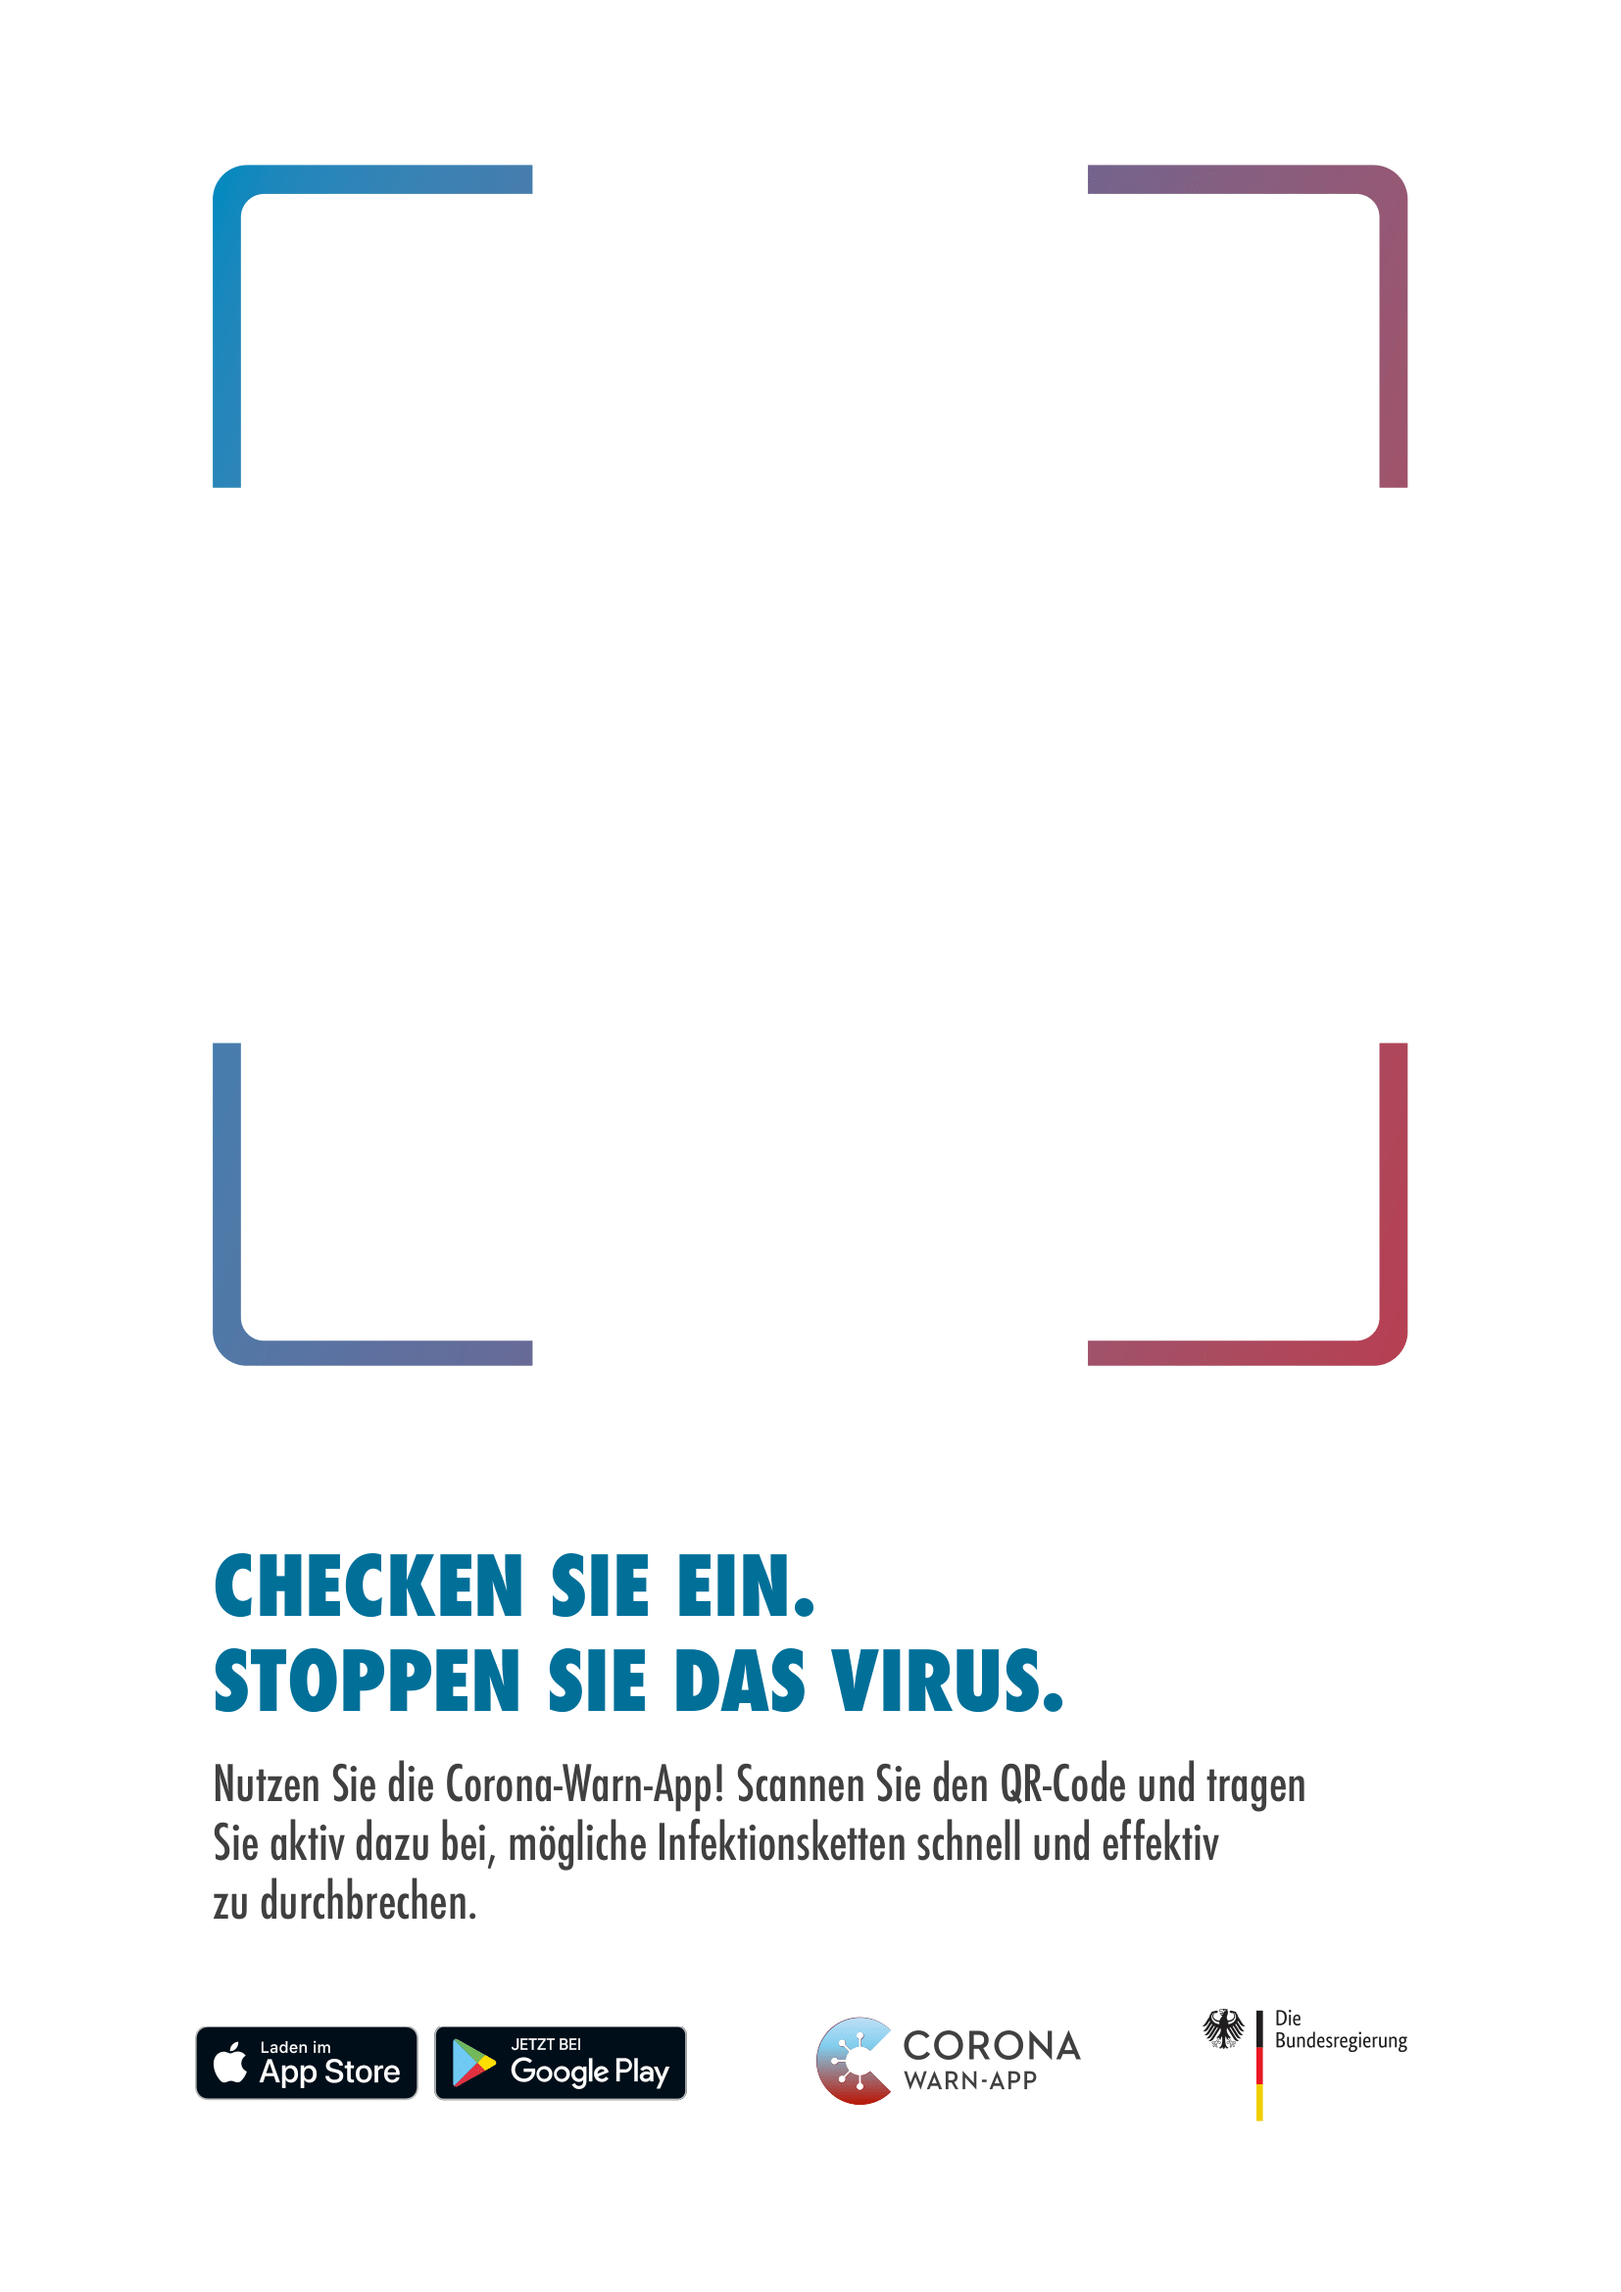
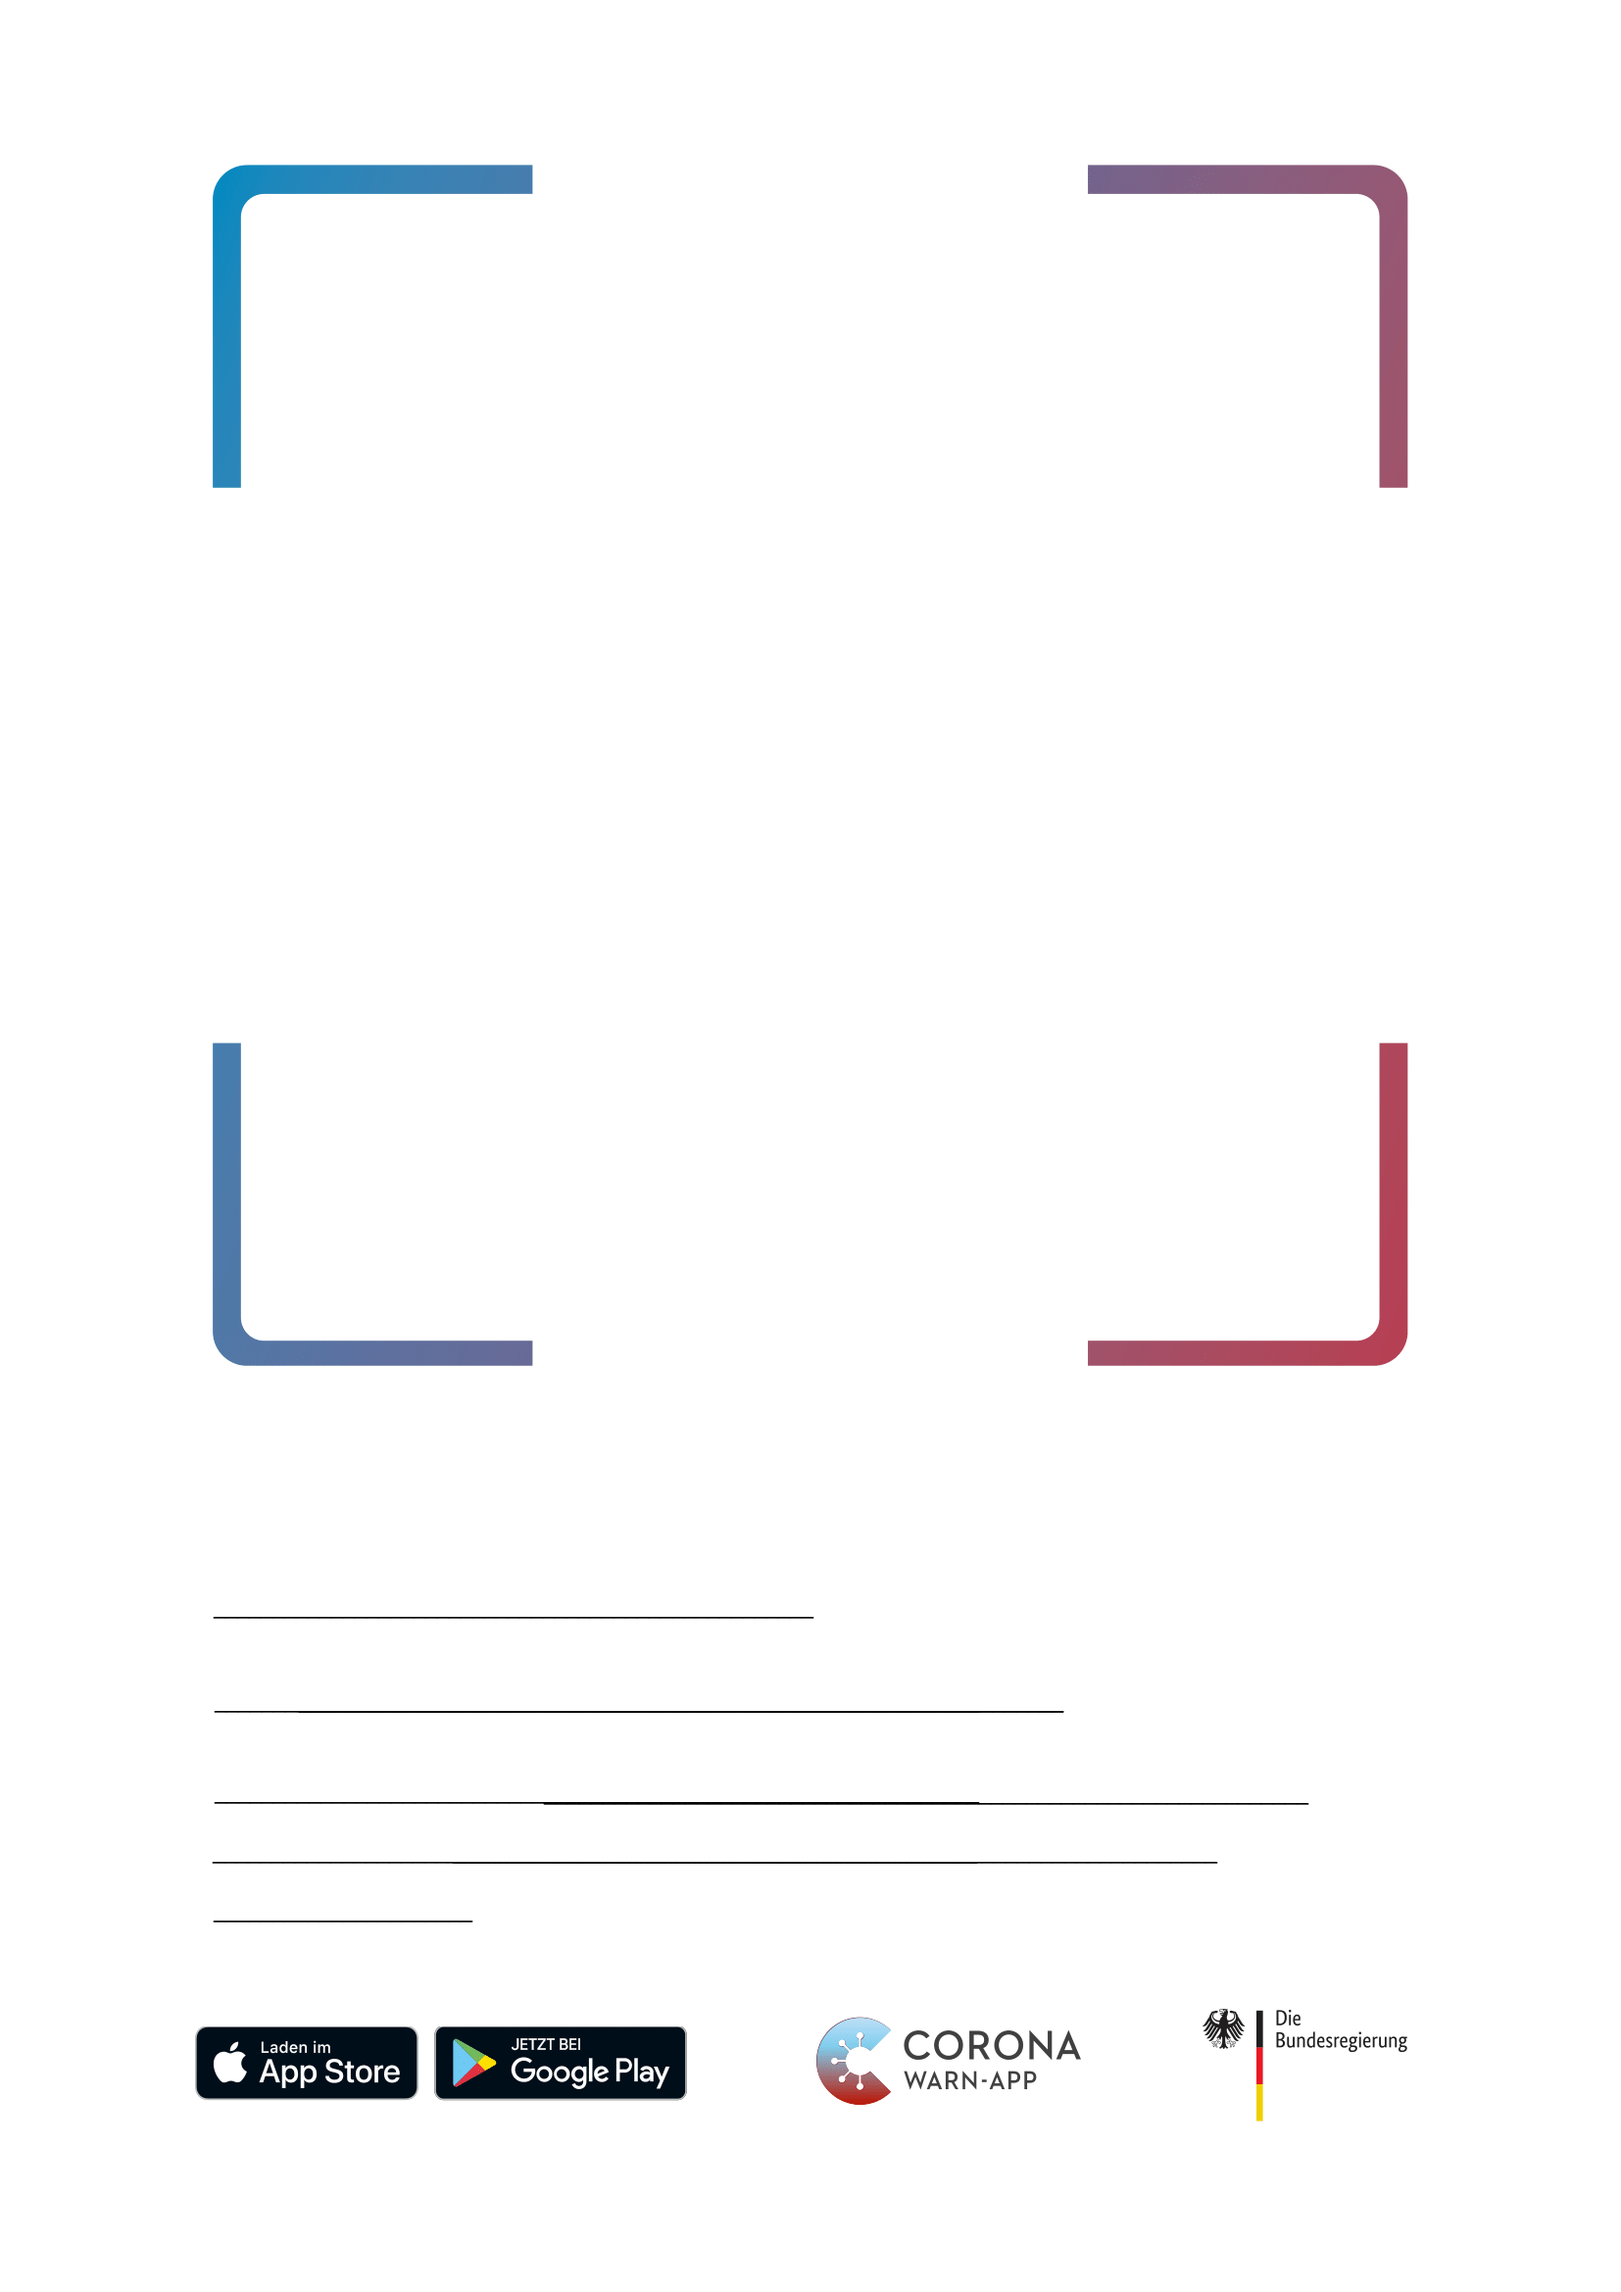
WIP

Changed region(s): [[0.1233, 0.6554, 0.8017, 0.8427]]

diff --git a/src/assets/js/eventregistration.js b/src/assets/js/eventregistration.js
@@ -91,15 +91,16 @@ document.getElementById('generateQR').addEventListener('click', async function (
     let ctx = canvas.getContext('2d');
     
     const qr = await GenerateQRCode(grid, description, address, defaultcheckinlengthMinutes, locationtype, startdate, enddate, starttime, endtime, false, defaultcheckinlengthHours);
-    ctx.width = 1654;
-    ctx.height = 2339;
-    canvas.width = 1654;
-    canvas.height = 2339;
-    canvas.style.maxWidth = "100%"
+    // ctx.width = 1654;
+    // ctx.height = 2339;
+    // canvas.width = 1654;
+    // canvas.height = 2339;
+    // canvas.style.maxWidth = "100%"
 
-    ctx.drawImage(qr, 0, 0);
+    // ctx.drawImage(qr, 0, 0);
 
-    PrintLayout()
+    PrintLayout(qr)
+
     document.getElementById('printCode').disabled = false;
     // Active download button
     document.getElementById('downloadCode').disabled = false;
@@ -477,11 +478,6 @@ async function GenerateQRCode(grid, description, address, defaultcheckinlengthMi
         canvas.style.maxWidth = "100%"
         ctx.drawImage(backgroundImage, 0, 0);
         ctx.drawImage(qr, 275, 230);
-        let fontSize = (30+parseInt(col))*2;
-        ctx.font = fontSize+"px sans-serif";
-        ctx.fillStyle = "black";
-        ctx.fillText(description, 225, 1460);
-        ctx.fillText(address, 225, 1460 + 50 + (fontSize/2));
         if(list) QR_LIST.push(canvas)
         else resolve(canvas);
       });
@@ -494,48 +490,106 @@ async function GenerateQRCode(grid, description, address, defaultcheckinlengthMi
   })
 }
 
-function PrintLayout() {
-  let img = new Image();
-  let qrCanvas = document.getElementById("eventqrcode");
-  img.src = qrCanvas.toDataURL();
+function PrintLayout(QR) {
+  let title = ["CHECKEN SIE EIN.", "STOPPEN SIE DAS VIRUS."]
+  let body = ["Nutzen Sie die Corona-Warn-App! Scannen Sie den QR-Code und tragen", "Sie aktiv dazu bei, mögliche Infektionsketten schnell und effektiv", "zu durchbrechen."]
 
-  img.onload = function () {
-    let grid = document.getElementById("pageLayout").value.split('x')
-    let col, row;
-    col = grid[0];
-    row = grid[1];
+  let today = new Date();
+  let date = today.toISOString().slice(0, 10);
+  let time = ("0" + today.getHours()).slice(-2) + "-" + ("0" + today.getMinutes()).slice(-2)
 
-    let canvas = document.getElementById("eventqrcode");
-    let ctx = canvas.getContext('2d');
+  let description = document.getElementById('description').value;
+  let address = document.getElementById('address').value;
 
-    let resolution = Math.sqrt(col * row) / 2;
-    let width = 1654 * resolution;
-    let height = 2339 * resolution;
-    if (col == row) {
-      ctx.width = width;
-      ctx.height = height;
-      canvas.width = width;
-      canvas.height = height;
-      canvas.style.maxWidth = "100%";
-    } else {
-      ctx.width = height;
-      ctx.height = width;
-      canvas.width = height;
-      canvas.height = width;
-      canvas.style.maxWidth = "100%";
-    }
 
-    for (let r = 0; r < row; r++) {
-      for (let c = 0; c < col; c++) {
-        ctx.drawImage(img, (canvas.width / col) * c, (canvas.height / row) * r, canvas.width / col, canvas.height / row);
-      }
-    }
+  let grid = document.getElementById("pageLayout").value.split('x')
+  let col, row;
+  col = parseInt(grid[0]);
+  row = parseInt(grid[1]);
 
-    if (col != row) {
-      ctx.translate(-canvas.width / 2, -canvas.height / 2);
-      ctx.rotate(-Math.PI / 2);
+  let portrait = col == row;
+  const doc = new jsPDF({
+    orientation: portrait ? "portrait" : "landscape",
+  });
+
+  let width = doc.internal.pageSize.getWidth();
+  let height = doc.internal.pageSize.getHeight();
+  let headFontSize, titleFontSize,bodyFontSize, lineHeight;
+
+  switch(document.getElementById("pageLayout").value) {
+    case "1x1":
+      headFontSize = 14;
+      titleFontSize = 24;
+      bodyFontSize = 14;
+      lineHeight = 1.5;
+      break;
+    case "2x1":
+      headFontSize = 14;
+      titleFontSize = 18;
+      bodyFontSize = 10;
+      lineHeight = 1.5;
+      break;
+    case "2x2":
+      headFontSize = 10;
+      titleFontSize = 12;
+      bodyFontSize = 7;
+      lineHeight = 1.5;
+      break;
+    case "3x3":
+      headFontSize = 10;
+      titleFontSize = 8;
+      bodyFontSize = 5;
+      lineHeight = 1.3;
+      break;
+    case "4x2":
+      headFontSize = 10;
+      titleFontSize = 9;
+      bodyFontSize = 5;
+      lineHeight = 1.3;
+      break;
+    case "4x4":
+      headFontSize = 8;
+      titleFontSize = 6;
+      bodyFontSize = 4;
+      lineHeight = 1.35;
+      break;
+    case "5x5":
+      headFontSize = 6;
+      titleFontSize = 24;
+      bodyFontSize = 24;
+      lineHeight = 1.5;
+      break;
+    case "6x3":
+      headFontSize = 7;
+      titleFontSize = 24;
+      bodyFontSize = 24;
+      lineHeight = 1.5;
+      break;
+  }
+  doc.setLineHeightFactor(lineHeight);
+  for (let r = 0; r < row; r++) {
+    for (let c = 0; c < col; c++) {
+      doc.addImage(QR, 'PNG', (width / col) * c, (height / row) * r, width / col, height / row, "", 'FAST');
+
+      doc.setTextColor('#000000');
+      doc.setFontSize(headFontSize)
+      doc.setLineHeightFactor(1);
+      doc.text([description, address], ((width/col) * c) + (width / col) * 0.1395, ((height/row) * r) + (height / row) * 0.6242)
+
+      doc.setLineHeightFactor(lineHeight);
+
+      doc.setFontSize(titleFontSize);
+      doc.setFont('Arial','bold');
+      doc.setTextColor('#007099');
+      doc.text(title, ((width/col) * c) + (width / col) * 0.1295, ((height/row) * r) + (height / row) * 0.70);
+
+      doc.setFontSize(bodyFontSize);
+      doc.setFont('Arial','normal');
+      doc.setTextColor('#404040');
+      doc.text(body, ((width/col) * c) + (width / col) * 0.1295, ((height/row) * r) + (height / row) * 0.785);
     }
   }
+  doc.save(`Event_QR_Codes_Date_${date}_Time_${time}`);
 }
 
 async function GenerateMultiQRCode(data) {
